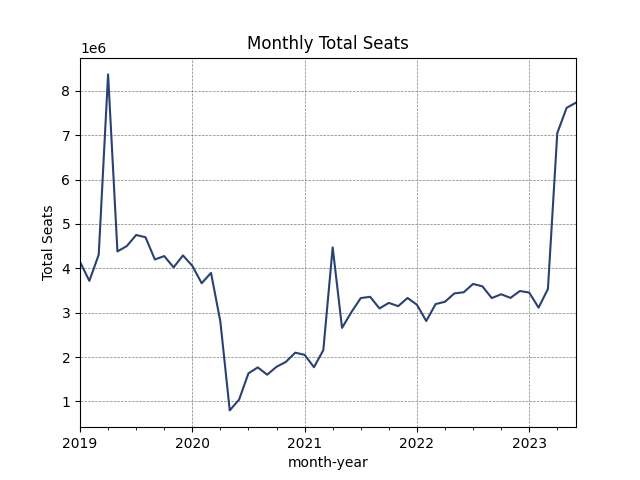
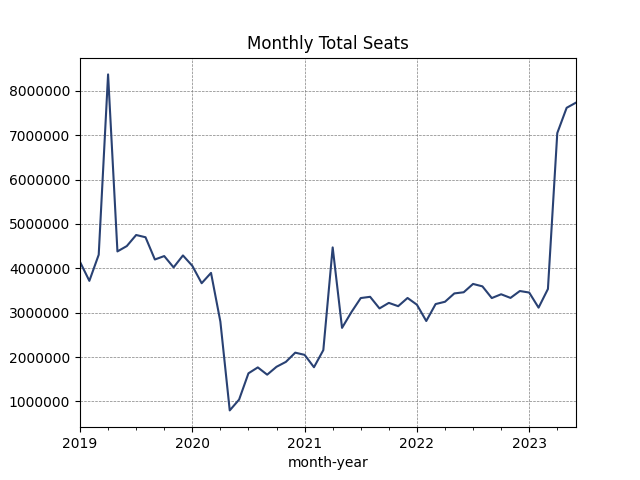
added functionality to generate al png

diff --git a/DBanalysis/pdf_generation.py b/DBanalysis/pdf_generation.py
@@ -18,11 +18,55 @@ def formatPNGdf(df):
     porig(df)
     ask(df)
 
-def formatPDF(trdf, aldf, origin, dest):
+def formatPNGal(df):
+    (topal, talpax, taly, talrev) = df
+    alpax(talpax)
+    alyield(taly)
+    alrev(talrev)
+
+
+def formatPDF(trdf, aldf, rdf, origin, dest):
     formatPNGdf(trdf)
+    formatPNGal(aldf)
 
+def alpax(df):
+    print(df)
+    x = df['month']
+    y_columns = df.columns[1:5].to_list()
+    for column in y_columns:
+        plt.plot(x, df[column], label = column)
+    plt.legend()
+    plt.title('Monthly Total Pax by airlines')
+    plt.xlabel('date')
+    plt. grid(axis= 'y', color= 'grey', linestyle = '--', linewidth = 0.5)
+    plt.savefig('Total_Pax_AL.png')
+    plt.show()
 
+def alrev(df):
+    print(df)
+    x = df['month']
+    y_columns = df.columns[1:5].to_list()
+    for column in y_columns:
+        plt.plot(x, df[column], label = column)
+    plt.legend()
+    plt.title('Monthly average revenue by airlines')
+    plt.xlabel('date')
+    plt. grid(axis= 'y', color= 'grey', linestyle = '--', linewidth = 0.5)
+    plt.savefig('Avg_Rev_AL.png')
+    plt.show()
 
+def alyield(df):
+    print(df)
+    x = df['month']
+    y_columns = df.columns[1:5].to_list()
+    for column in y_columns:
+        plt.plot(x, df[column], label = column)
+    plt.legend()
+    plt.title('Monthly average yield by airlines')
+    plt.xlabel('date')
+    plt. grid(axis= 'y', color= 'grey', linestyle = '--', linewidth = 0.5)
+    plt.savefig('Avg_yield_AL.png')
+    plt.show()
 
 def totalPax(df):
     df.plot(kind = 'line', x = 'month',y = 'pax', c = '#294173', legend = False)
@@ -48,6 +92,7 @@ def totalSeats(df):
     plt.xlabel('month-year')
     plt.ylabel('Total Seats')
     plt.grid( color = 'grey', linestyle = '--', linewidth = 0.5)
+    plt.ticklabel_format(style = 'plain', axis = 'y')
     plt.savefig('sum_seats.png')
     plt.show()
 

diff --git a/DBanalysis/qry_generation.py b/DBanalysis/qry_generation.py
@@ -54,7 +54,7 @@ def getInfo():
     trsch_df = generateTRSC(origin, orig_continent, destination)
     al_df = generateAl(origin, orig_continent, destination)
     topr_df = generateR(origin, orig_continent, destination)
-    formatPDF(trsch_df, al_df, origin, destination)
+    formatPDF(trsch_df, al_df, topr_df,origin, destination)
 
 
 if __name__ == "__main__":
